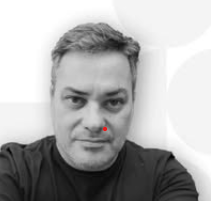
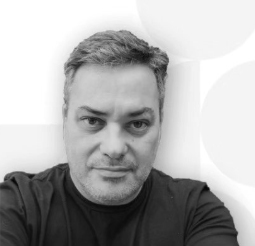
mahave

diff --git a/app.js b/app.js
@@ -15,15 +15,15 @@ const actividades = [
         horaInicio: "10:00",
         horaFin: "10:30",
         tipo: "CONFERENCIA",
-        titulo: "Desterritorialización material",
+        titulo: "Arq. Alberto Mahave: Desterritorialización material",
         tematica: "TERRITORIO",
         sede: "MACC",
         ubicacion: "CORRIENTES",
-        presentador: "FAU-UNNE",
+        presentador: "Alberto Mahave",
         profesion: "Arquitectura y Urbanismo",
-        foto: "images/expositores/fau.png",
+        foto: "images/expositores/mahave.png",
         estado: "CONFIRMADA",
-        descripcion: "Expone el arquitecto Alberto Mahave."
+        descripcion: "Alberto Mahave es arquitecto egresado de la Facultad de Arquitectura y Urbanismo de la Universidad Nacional del Nordeste (UNNE), magíster en Arquitectura con mención Proyecto por la Universidad Nacional del Litoral y doctorando en Arquitectura. Es docente e investigador de la FAU-UNNE, donde desarrolla su actividad en torno a la forma, la materialidad y el espacio arquitectónico. Su trabajo integra arquitectura, espacio público y planificación territorial, con especial interés en las relaciones entre ciudad, paisaje y ambiente. Su producción académica y profesional aborda particularmente las problemáticas urbanas y ambientales de Resistencia y su sistema hídrico, explorando estrategias para construir espacios públicos más habitables, inclusivos y sostenibles."
     },
 
     {
